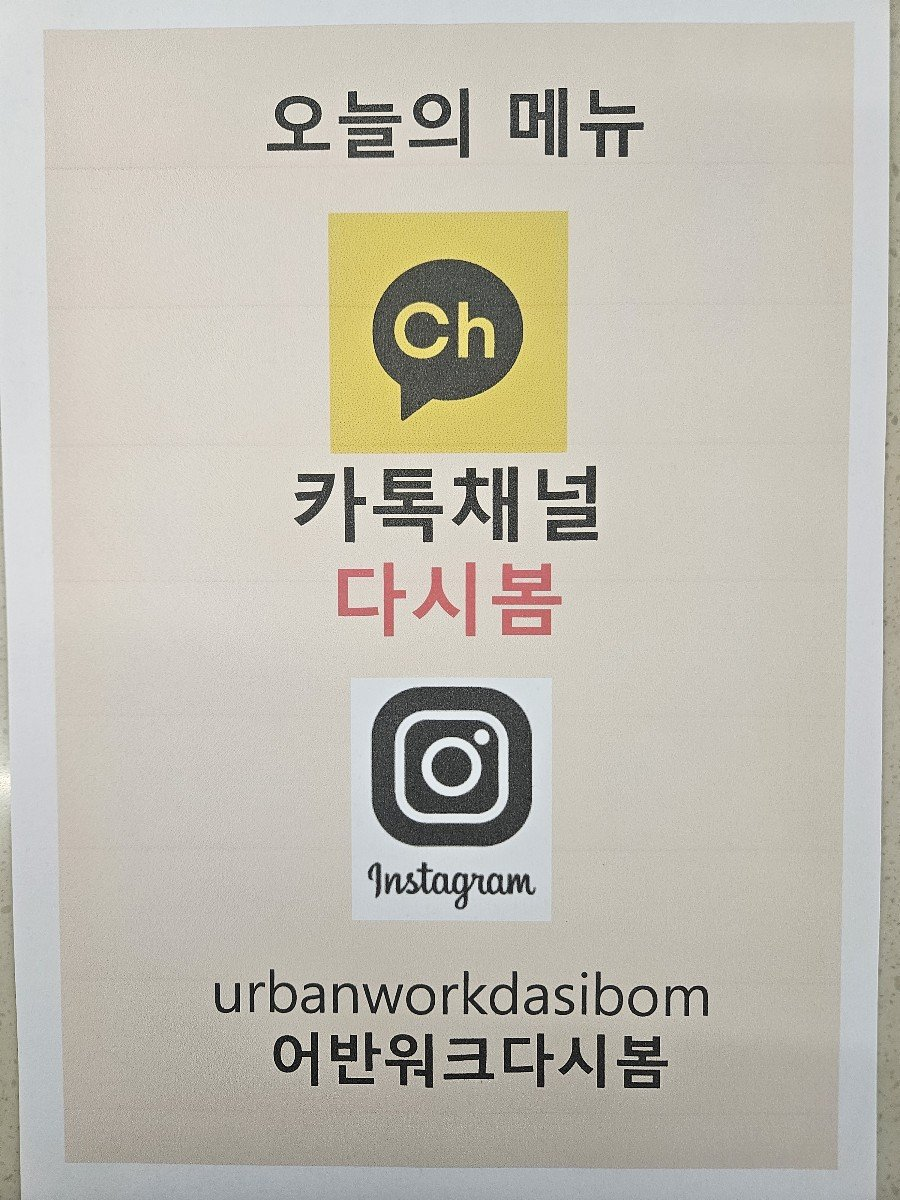
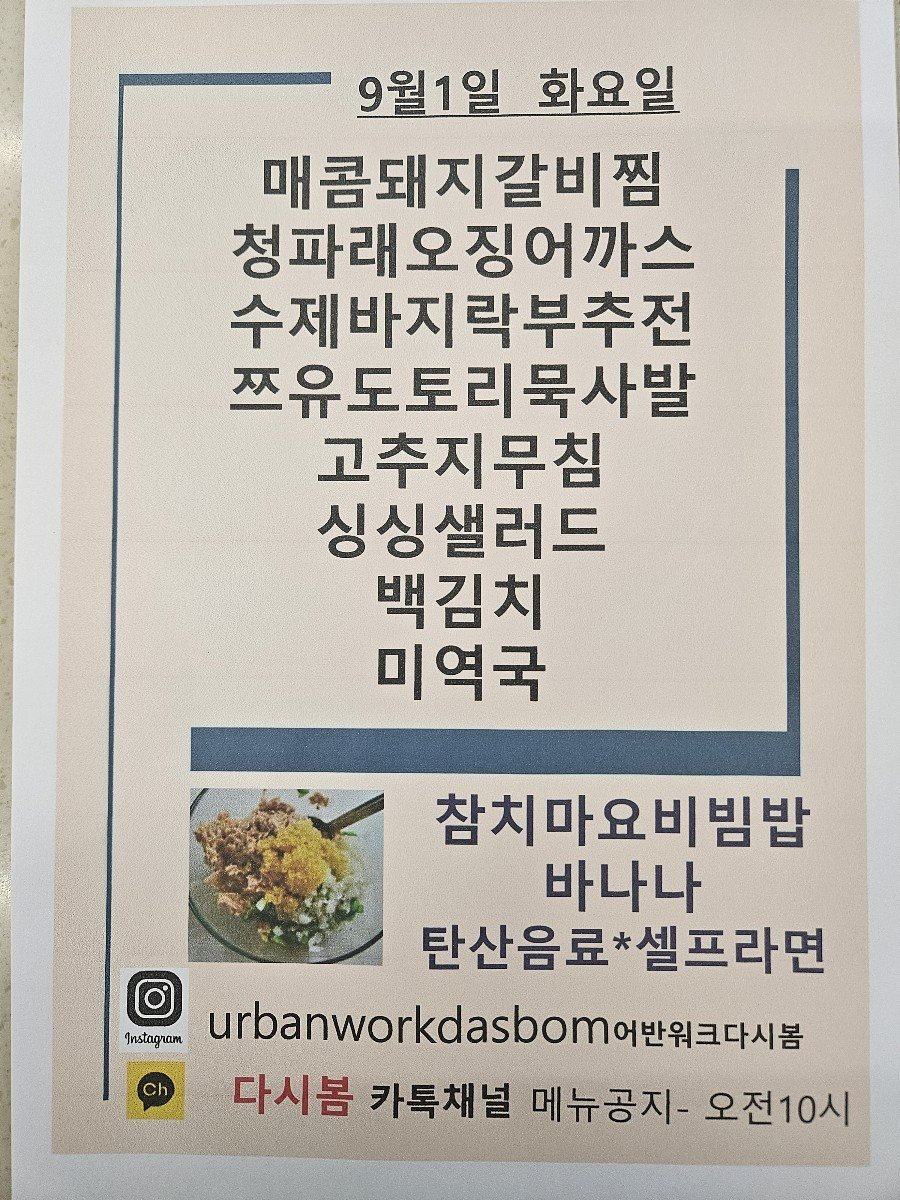
Update menu board assets

diff --git a/menu-today/index.html b/menu-today/index.html
@@ -209,7 +209,7 @@
 
     <section class="meta-bar">
       <div class="meta-card"><div class="meta-label">기준 날짜</div><div class="meta-value">2026년 9월 1일 화요일</div></div>
-      <div class="meta-card"><div class="meta-label">최종 가져온 시간</div><div class="meta-value">2026-09-01 09:33:17</div></div>
+      <div class="meta-card"><div class="meta-label">최종 가져온 시간</div><div class="meta-value">2026-09-01 09:48:20</div></div>
       <div class="meta-card"><div class="meta-label">확인 완료</div><div class="meta-value">9개 식당</div></div>
       <div class="meta-card"><div class="meta-label">준비중</div><div class="meta-value">3개 채널</div></div>
     </section>
@@ -235,7 +235,7 @@
             <div class="sub">가산 어반워크</div>
           </div>
         </div>
-        <div class="menu-inline-image"><img src="./images/dasibom.png" alt="다시 봄 식단 이미지"></div><ul><li>아이 R</li><li>오늘의 메</li><li>톡채</li><li>다시</li><li>카톡채널</li></ul>
+        <div class="menu-inline-image"><img src="./images/dasibom.png" alt="다시 봄 식단 이미지"></div><ul><li>매콤돼지갈비찜</li><li>청파래오징어까스</li><li>! 수제바지락부추전</li><li>고추지무침</li><li>백김치</li><li>미역국</li><li>바나나</li><li>수제바지</li><li>고주지무침</li></ul>
       </article>
 
       <article class="restaurant-card">
@@ -255,7 +255,7 @@
             <div class="sub">디폴리스지식산업센터</div>
           </div>
         </div>
-        <div class="menu-inline-image"><img src="./images/dipolis.png" alt="디폴리스 구내식당 식단 이미지"></div><div class="menu-section"><div class="menu-section-title">중식</div><ul><li>제육고추장불고기</li><li>숙주나물 무침</li><li>양배추 야채 샐러드</li><li>탄산음료</li></ul></div>
+        <div class="menu-inline-image"><img src="./images/dipolis.png" alt="디폴리스 구내식당 식단 이미지"></div><div class="menu-section"><div class="menu-section-title">중식</div><ul><li>제육 고추장 불고기</li><li>숙주나물무침</li><li>양배추 야채 샐러드</li><li>탄산음료</li></ul></div>
       </article>
 
       <article class="restaurant-card">
@@ -265,7 +265,7 @@
             <div class="sub">가산비즈니스센터</div>
           </div>
         </div>
-        <div class="menu-inline-image"><img src="./images/raonfood.png" alt="구내식당라온푸드 식단 이미지"></div><ul><li>고구바지즈돈까스</li><li>철판춘[!봉을</li><li>모든견과류조림</li><li>숙주나물 무침</li><li>샐러드 &amp; 드레싱</li><li>숭늄 &amp; S &amp; F</li><li>절침베튜</li><li>파재소고 )</li><li>으려 FI</li></ul>
+        <div class="menu-inline-image"><img src="./images/raonfood.png" alt="구내식당라온푸드 식단 이미지"></div><ul><li>고구바지즈돈까스</li><li>철판춘[!봉을</li><li>모든견과류조림</li><li>숙주나물무침</li><li>샐러드 &amp; 드레싱</li><li>숭늄 &amp; S &amp; F</li><li>절침베튜</li><li>파재소고 )</li><li>으려 FI</li></ul>
       </article>
 
       <article class="restaurant-card">
@@ -295,7 +295,7 @@
             <div class="sub">에이스테크노타워10차</div>
           </div>
         </div>
-        <div class="menu-inline-image"><img src="./images/thefoodsketch.png" alt="더푸드스케치 식단 이미지"></div><ul><li>공나물애장국</li><li>소세지전</li><li>메밀막국수</li><li>토마토두부조림</li><li>그 일배기배추 / 쌈장</li><li>GS 무밀랭이</li><li>가든샐러드 &amp; 드레싱</li><li>보쌈김치 / 음료</li><li>혼합잡곡밥 [ 더푸드드케차</li></ul>
+        <div class="menu-inline-image"><img src="./images/thefoodsketch.png" alt="더푸드스케치 식단 이미지"></div><ul><li>공나물애장국</li><li>소세지전</li><li>메밀막국수</li><li>토마토두부조림</li><li>그 일배기배추 / 쌈장</li><li>GS 무밀랭이</li><li>가든샐러드 / 드레싱</li><li>보쌈김치 / 음료</li><li>혼합잡곡밥 [ 더푸드드케차</li></ul>
       </article>
 
       <article class="restaurant-card">

diff --git a/guro-menu/index.html b/guro-menu/index.html
@@ -32,7 +32,7 @@
   </header>
   <section class="meta">
     <div><small>기준 날짜</small><strong>2026년 9월 1일 화요일</strong></div>
-    <div><small>최종 갱신</small><strong>2026-09-01 09:33:34</strong></div>
+    <div><small>최종 갱신</small><strong>2026-09-01 09:48:38</strong></div>
     <div><small>등록 식당</small><strong>5개</strong></div>
   </section>
   <div class="notice">공개 카카오 채널의 메뉴 이미지를 자동 수집하고 OCR로 정리합니다. 텍스트에 오타가 있을 수 있으니 식단 이미지를 함께 확인해 주세요.</div>
